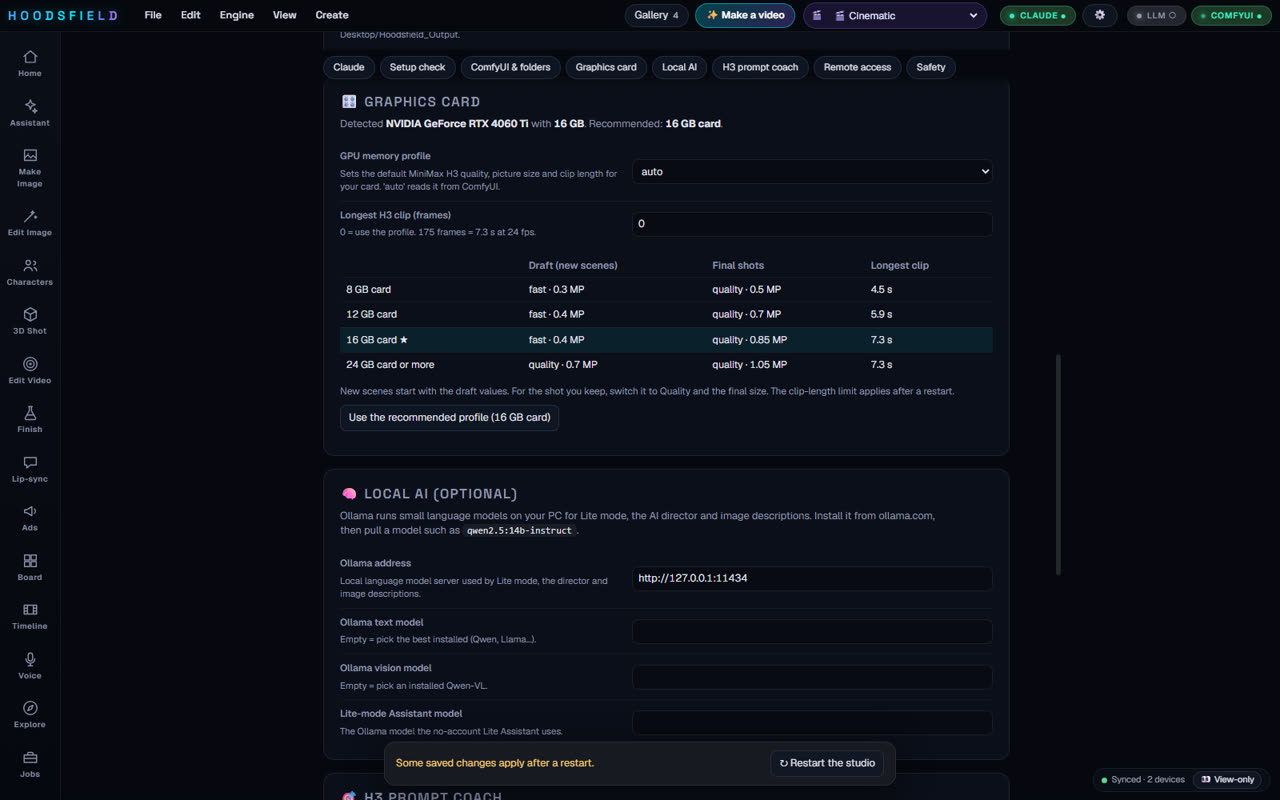
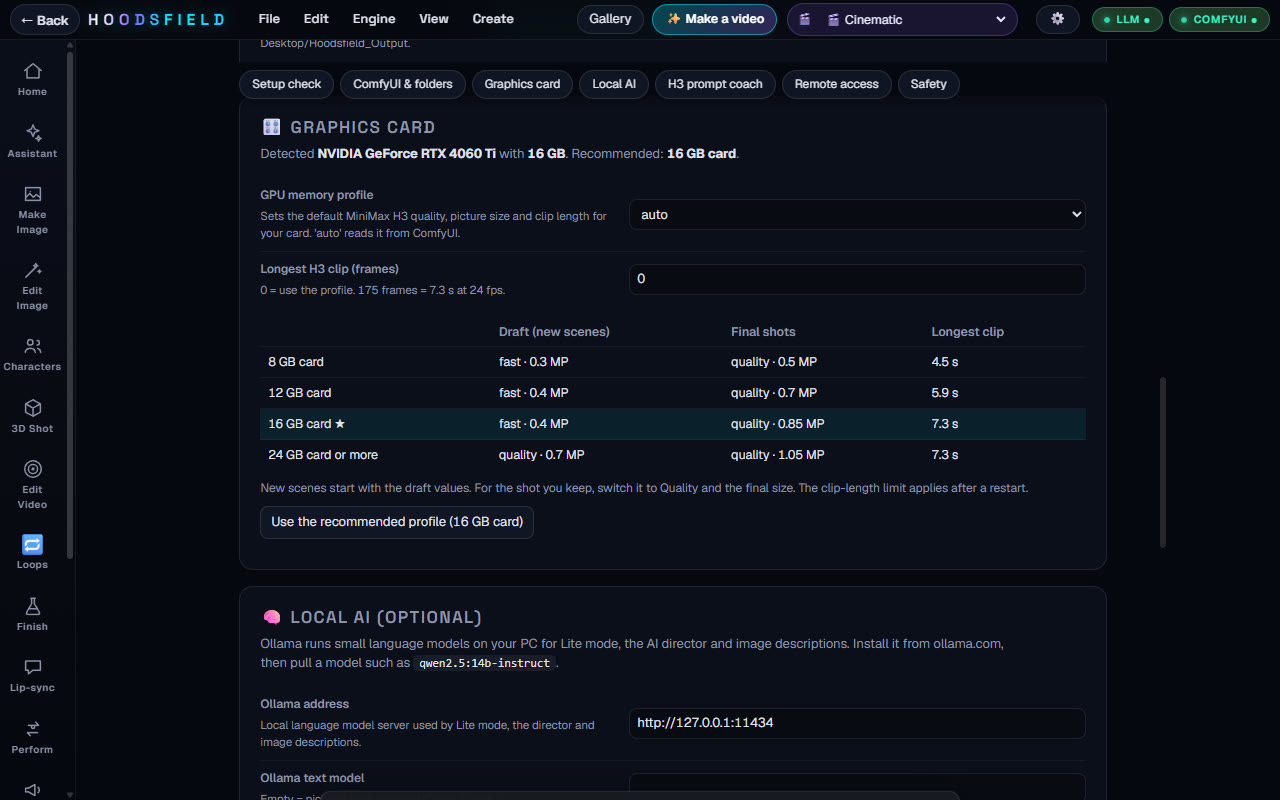
Contest build: Claude extras are opt-in and off by default
- New claude_enabled setting (HF_CLAUDE_ENABLED, off by default). With it off, the optional Claude Assistant engine, the Story Room Claude engines, the Settings Claude card, the top-bar pill, the installer check and the MCP Claude command are hidden or refused. The code is kept; a personal settings file switches it on.
- Loops one-click planner reads the picture with the local Ollama vision model when the extras are off, and falls back to a default plan.
- Docs, security notes, setup guide, changelog and development notes no longer describe Claude; the connection guide and its screenshot moved out of the repo.
- Settings screenshot recaptured without the Claude chip.

diff --git a/app/frontend/src/components/SettingsPage.jsx b/app/frontend/src/components/SettingsPage.jsx
@@ -165,6 +165,7 @@ export default function SettingsPage({ active }) {
   const apiMode = (val('claude_auth') || 'login') === 'api_key';
   let cstate = 'loading';
   if (claude) cstate = cs.error ? 'error' : !cs.installed ? 'missing' : cs.ready ? 'ready' : 'signedout';
+  const claudeOn = !!claude && !claude.disabled;   // the Claude card only exists when the Claude extras are switched on
 
   return (
     <div className="st-page" ref={root}>
@@ -184,13 +185,13 @@ export default function SettingsPage({ active }) {
       {!local && <div className="st-note">You are connected from another device. Sign-in, folders and passwords can only be changed on the PC itself.</div>}
 
       <nav className="st-nav">
-        {[['claude', 'Claude'], ['check', 'Setup check'], ['comfy', 'ComfyUI & folders'], ['gpu', 'Graphics card'], ['llm', 'Local AI'], ['coach', 'H3 prompt coach'], ['remote', 'Remote access'], ['safety', 'Safety']].map(([id, t]) => (
+        {[['claude', 'Claude'], ['check', 'Setup check'], ['comfy', 'ComfyUI & folders'], ['gpu', 'Graphics card'], ['llm', 'Local AI'], ['coach', 'H3 prompt coach'], ['remote', 'Remote access'], ['safety', 'Safety']].filter(([id]) => id !== 'claude' || claudeOn).map(([id, t]) => (
           <button key={id} onClick={() => root.current?.querySelector(`[data-sec="${id}"]`)?.scrollIntoView({ behavior: 'smooth', block: 'start' })}>{t}</button>
         ))}
       </nav>
 
       {/* ---------------------------------------------------------------- Claude */}
-      <section className="st-card" data-sec="claude">
+      {claudeOn && <section className="st-card" data-sec="claude">
         <h3>🤖 Claude</h3>
         <p className="st-lead">The <b>Assistant</b> (idea in, finished video out) and agent control use your own Claude account through the free Claude Code app. Everything else in Hoodsfield runs on your PC without any account, and Lite mode works with a local model if you skip this.</p>
 
@@ -234,18 +235,19 @@ export default function SettingsPage({ active }) {
         )}
 
         <div className="st-grid">
+          {F('claude_enabled')}
           {F('claude_auth')}
           {F('claude_model')}
           {apiMode && F('claude_api_key')}
         </div>
         <details className="st-adv"><summary>Advanced</summary>{F('claude_bin')}</details>
         <p className="st-hint">Using your own login means no API key sits on this PC and usage counts against your Claude plan, not a separate bill. The Assistant can only use Hoodsfield's tools and read files; it cannot run commands or edit files.</p>
-      </section>
+      </section>}
 
       {/* ---------------------------------------------------------------- health check */}
       <section className="st-card" data-sec="check">
         <h3>✅ Setup check</h3>
-        <p className="st-lead">Tests ComfyUI, folders, the nodes and models each feature needs, your graphics card, memory, disk space, ffmpeg, Claude and the local AI.</p>
+        <p className="st-lead">Tests ComfyUI, folders, the nodes and models each feature needs, your graphics card, memory, disk space, ffmpeg{claudeOn ? ', Claude' : ''} and the local AI.</p>
         <div className="st-actions"><button className="st-cta" disabled={checking} onClick={runCheck}>{checking ? 'Checking…' : health ? '↻ Run the check again' : 'Run the setup check'}</button>
           {health && <span className={health.ok ? 'st-pass' : 'st-fail'}>{health.summary.ok} OK · {health.summary.warn} to look at · {health.summary.fail} problem{health.summary.fail === 1 ? '' : 's'}</span>}</div>
         {health && (
@@ -317,12 +319,12 @@ export default function SettingsPage({ active }) {
         <h3>🎯 H3 prompt coach</h3>
         <p className="st-lead">MiniMax H3 makes picture and sound in one pass, so prompts work best as short production briefs. The coach keeps your words and adds camera, physics, audio and constraint lines. You can preview exactly what it adds next to the H3 prompt box.</p>
         {F('h3_coach')}{F('h3_coach_llm')}
-        <div className="st-row">
+        {claudeOn && <div className="st-row">
           <label><b>Claude Code skill</b><small>Teaches Claude Code the same H3 prompting rules, so any agent session writes better H3 prompts.</small></label>
           <div className="st-ctl">
             {skill?.installed ? <span className="st-pass">✔ installed</span> : <button disabled={!local || !skill?.available} onClick={installSkill}>Install the skill</button>}
           </div>
-        </div>
+        </div>}
       </section>
 
       {/* ---------------------------------------------------------------- remote */}

diff --git a/app/frontend/src/components/AssistantPanel.jsx b/app/frontend/src/components/AssistantPanel.jsx
@@ -147,7 +147,7 @@ export default function AssistantPanel({ active, assets }) {
   useEffect(() => {
     if (active) {
       loadRuns();
-      jget('/api/assistant/status').then((s) => { setSt(s); if (!s.claude_code && s.lite?.installed) setForm((f) => ({ ...f, engine: 'lite' })); }).catch(() => {});
+      jget('/api/assistant/status').then((s) => { setSt(s); if ((!s.claude_enabled || !s.claude_code) && (s.lite?.installed || !s.claude_enabled)) setForm((f) => ({ ...f, engine: 'lite' })); }).catch(() => {});
     }
   }, [active, loadRuns]);
   useEffect(() => { if (sel) loadRun(sel); else setRun(null); }, [sel, loadRun]);
@@ -245,7 +245,7 @@ export default function AssistantPanel({ active, assets }) {
         {alertNote && <p className="as-hint" onClick={() => setAlertNote('')}>{alertNote}</p>}
         <p className="as-sub">Give it an idea. It writes, makes the pictures and clips, and builds the video, and asks for your OK at the key points. You can leave and answer from your phone.</p>
       </div>
-      {st && !st.claude_code && form.engine === 'claude' && <div className="error">{st.claude?.message || "Claude isn't connected on this PC."} <button type="button" onClick={() => openPage('settings', 'claude')}>Set up Claude</button> or switch to Lite mode below.</div>}
+      {st && st.claude_enabled && !st.claude_code && form.engine === 'claude' && <div className="error">{st.claude?.message || "Claude isn't connected on this PC."} <button type="button" onClick={() => openPage('settings', 'claude')}>Set up Claude</button> or switch to Lite mode below.</div>}
       {err && <div className="error" onClick={() => { setErr(''); if (sel) loadRun(sel); else loadRuns(); }}>{err}</div>}
 
       {!sel && (
@@ -271,9 +271,11 @@ export default function AssistantPanel({ active, assets }) {
 
             <label>Assistant brain</label>
             <div className="as-engines">
-              <button type="button" className={form.engine === 'claude' ? 'on' : ''} disabled={st && !st.claude_code} onClick={() => setForm({ ...form, engine: 'claude' })}>
-                <b>Claude</b><small>Best quality. Uses your Claude login.{st && !st.claude_code ? (st.claude?.installed ? ' (not signed in)' : ' (not installed)') : ''}</small>
-              </button>
+              {st?.claude_enabled && (
+                <button type="button" className={form.engine === 'claude' ? 'on' : ''} disabled={st && !st.claude_code} onClick={() => setForm({ ...form, engine: 'claude' })}>
+                  <b>Claude</b><small>Best quality. Uses your Claude login.{st && !st.claude_code ? (st.claude?.installed ? ' (not signed in)' : ' (not installed)') : ''}</small>
+                </button>
+              )}
               <button type="button" className={form.engine === 'lite' ? 'on' : ''} disabled={st && !(st.lite?.ollama && st.lite?.installed)} onClick={() => setForm({ ...form, engine: 'lite' })}>
                 <b>Lite (local)</b><small>Free, no account. Plainer scripts, no self-review.{st && !st.lite?.installed ? ` (needs ${st.lite?.model})` : ''}</small>
               </button>

diff --git a/app/frontend/src/components/StoryRoom.jsx b/app/frontend/src/components/StoryRoom.jsx
@@ -23,7 +23,8 @@ export default function StoryRoom({ tk, setTk, onScript, goScript }) {
 
   const patch = (p) => setTk((m) => ({ ...m, room: { ...(m.room || { messages: [], engine: '' }), ...p } }));
   useEffect(() => { storyRoomStatus().then(setSt); }, []);
-  const engine = room.engine || (st?.claude_code?.available ? 'claude_code' : st?.claude.configured ? 'claude' : 'local');
+  const claudeOn = !!st?.enabled;       // the Claude engines exist only when the Claude extras are switched on
+  const engine = !claudeOn ? 'local' : room.engine || (st?.claude_code?.available ? 'claude_code' : st?.claude.configured ? 'claude' : 'local');
   useEffect(() => { endRef.current?.scrollIntoView({ behavior: 'smooth', block: 'nearest' }); }, [room.messages.length, busy]);
 
   const ask = async (messages) => {
@@ -73,6 +74,7 @@ export default function StoryRoom({ tk, setTk, onScript, goScript }) {
           <button className={engine === 'local' ? 'on' : ''} onClick={() => patch({ engine: 'local' })} title={st?.local.ok ? `Local AI (${st.local.model}): free and private, a smaller writer` : 'Ollama is not running'}>
             🖥 Local AI {st ? (st.local.ok ? '●' : '○') : ''}
           </button>
+          {claudeOn && <>
           <button className={engine === 'claude_code' ? 'on' : ''} onClick={() => (st?.claude_code?.available ? patch({ engine: 'claude_code' }) : openPage('settings', 'claude'))}
             title={st?.claude_code?.available ? 'Claude, using your Claude subscription through the Claude Code that is already signed in on this computer. No API key. Takes a few seconds longer per reply.' : `${st?.claude_code?.message || 'Claude is not connected.'} Click to set it up in Settings.`}>
             ✨ Claude (my subscription) {st?.claude_code?.available ? '●' : '○'}
@@ -80,10 +82,11 @@ export default function StoryRoom({ tk, setTk, onScript, goScript }) {
           <button className={engine === 'claude' ? 'on' : ''} onClick={() => (claudeReady ? patch({ engine: 'claude' }) : setShowKey(true))} title="Claude through the Anthropic API with your own API key (billed separately from a subscription); only this conversation is sent.">
             🔑 Claude API key {claudeReady ? '●' : ''}
           </button>
+          </>}
         </div>
       </div>
 
-      {showKey && (
+      {claudeOn && showKey && (
         <div className="sr-key">
           <div className="hint">Paste your Anthropic API key (starts with <code>sk-ant-</code>). It is stored only on this computer, in the backend folder. Only the story conversation is sent to Anthropic, never your images or videos. Get one at console.anthropic.com.</div>
           <div className="row">

diff --git a/app/frontend/src/components/MagicLoop.jsx b/app/frontend/src/components/MagicLoop.jsx
@@ -2,7 +2,7 @@ import React, { useEffect, useRef, useState } from 'react';
 import DropZone from './DropZone.jsx';
 import LivingScene from './LivingScene.jsx';
 
-// One click: drop a picture, Claude looks at it like an art director and plans the loop (what is water, what must stay still, which effects suit it,
+// One click: drop a picture and Hoodsfield plans the loop (an optional vision planner, when switched on, reads the picture like an art director) (what is water, what must stay still, which effects suit it,
 // and where), and the app renders it. Water and fog scenes are drawn on the graphics card; rain, snow, stars, aurora, fireflies and lamps use the
 // layer engine. A one-line hint ("stars and a lamp flicker, no fog") re-plans it.
 
@@ -141,7 +141,7 @@ export default function MagicLoop({ assets = [], onLoop, onError }) {
 
   if (!pic) {
     return (
-      <DropZone accept="image" icon="✨" title="Drop a picture. That's it." hint="A lake, a rainy window, a snowy cabin, a night street… Claude looks at it, decides what should move, and makes the loop for you."
+      <DropZone accept="image" icon="✨" title="Drop a picture. That's it." hint="A lake, a rainy window, a snowy cabin, a night street… Hoodsfield decides what should move and makes the loop for you."
         assets={assets} onFile={(f) => { setHint(''); look({ blob: f, url: URL.createObjectURL(f), name: f.name }); }} onAsset={(a) => { setHint(''); look({ blob: a.blob, url: a.url, name: a.name }); }} />
     );
   }

diff --git a/app/frontend/src/components/McpPage.jsx b/app/frontend/src/components/McpPage.jsx
@@ -12,14 +12,16 @@ export default function McpPage() {
       <div className="mcp-card">
         <h2>🤖 Let an agent drive the studio</h2>
         <p>
-          Hoodsfield ships a local <b>Model Context Protocol</b> server. Register it once and Claude (or any MCP client) can generate and
+          Hoodsfield ships a local <b>Model Context Protocol</b> server. Register it once and any MCP client can generate and
           edit images, build character sheets, upscale, cut out backgrounds, interpolate, animate stills and run Genjutsu — on your GPU, with no cloud.
           Keep the backend and ComfyUI running.
         </p>
-        <h3>Claude Code</h3>
-        <pre>{info?.claude_code || 'loading…'}</pre>
-        <button disabled={!info} onClick={() => copy('cc', info.claude_code)}>{copied === 'cc' ? 'Copied ✓' : 'Copy command'}</button>
-        <h3>Other clients (JSON)</h3>
+        {info?.claude_code && (<>
+          <h3>Claude Code</h3>
+          <pre>{info.claude_code}</pre>
+          <button onClick={() => copy('cc', info.claude_code)}>{copied === 'cc' ? 'Copied ✓' : 'Copy command'}</button>
+        </>)}
+        <h3>MCP clients (JSON)</h3>
         <pre>{info ? JSON.stringify(info.json, null, 2) : 'loading…'}</pre>
         <button disabled={!info} onClick={() => copy('js', JSON.stringify(info.json, null, 2))}>{copied === 'js' ? 'Copied ✓' : 'Copy JSON'}</button>
       </div>

diff --git a/app/frontend/src/components/SetupBanner.jsx b/app/frontend/src/components/SetupBanner.jsx
@@ -25,7 +25,7 @@ export default function SetupBanner({ onOpen }) {
     <div className="setup-banner" role="status">
       <div>
         <b>Welcome to Hoodsfield.</b>{' '}
-        <span>{res.summary.fail ? `${res.summary.fail} thing${res.summary.fail === 1 ? '' : 's'} must be fixed before everything works` : `${n} thing${n === 1 ? '' : 's'} worth a look`}. Settings has a one-page checklist and the Claude sign-in.</span>
+        <span>{res.summary.fail ? `${res.summary.fail} thing${res.summary.fail === 1 ? '' : 's'} must be fixed before everything works` : `${n} thing${n === 1 ? '' : 's'} worth a look`}. Settings has a one-page checklist.</span>
       </div>
       <button className="st-cta" onClick={() => { mark(); setRes(null); onOpen?.(); openPage('settings', 'check'); }}>Open setup</button>
       <button className="x" onClick={() => { mark(); setRes(null); }} aria-label="Dismiss">✕</button>

diff --git a/app/frontend/src/features.js b/app/frontend/src/features.js
@@ -62,8 +62,8 @@ export const FEATURES = [
   { id: 'timeline', overlay: 'timeline', icon: '🎞', title: 'Timeline', tag: 'Cut it all together',
     blurb: 'A multi-track editor: trim, split, speed, dissolves, overlays, captions, audio mix and a colour look, exported by ffmpeg.',
     media: 'timeline', accent: '#a07bff', group: 'workflows', badge: 'NLE' },
-  { id: 'mcp', overlay: 'mcp', icon: '🤖', title: 'Agent / MCP', tag: 'Let Claude drive the studio',
-    blurb: 'A local MCP server exposes generate, edit, upscale, cutout, Genjutsu and more to Claude or any agent.',
+  { id: 'mcp', overlay: 'mcp', icon: '🤖', title: 'Agent / MCP', tag: 'Let an agent drive the studio',
+    blurb: 'A local MCP server exposes generate, edit, upscale, cutout, Genjutsu and more to any MCP agent.',
     media: 'mcp', accent: '#c4b5fd', group: 'workflows', badge: 'MCP' },
 ];
 

diff --git a/app/frontend/src/components/TikTokPanel.jsx b/app/frontend/src/components/TikTokPanel.jsx
@@ -285,7 +285,7 @@ export default function TikTokPanel({
           {inbox.length > 0 && (
             <div className="tk-fx">
               <h4 className="sd-h">📥 Scripts waiting in your inbox</h4>
-              <div className="hint">Scripts written for you outside the app (for example co-written with Claude) show up here. Click one to load it as your script.</div>
+              <div className="hint">Scripts written for you outside the app (for example written in another tool) show up here. Click one to load it as your script.</div>
               {inbox.map((sc) => (
                 <button key={sc.name} disabled={scriptBusy} onClick={async () => { const d = await getScript(sc.name); setPasteText(d.text); onParseScript(d.text); }}>
                   📄 {sc.title} <small>· {sc.shots} shots</small>

diff --git a/app/frontend/src/api.js b/app/frontend/src/api.js
@@ -660,7 +660,7 @@ export async function makeScore(prompt, seconds, seed = 7) {
 }
 
 
-/** Script inbox: scripts written outside the app (e.g. co-written with Claude) that can be loaded into the Script step. */
+/** Script inbox: scripts written outside the app (e.g. written in another tool) that can be loaded into the Script step. */
 export async function listScripts() { try { const r = await fetch('/api/scripts'); return r.ok ? (await r.json()).scripts : []; } catch { return []; } }
 export async function getScript(name) { const r = await fetch(`/api/scripts/${encodeURIComponent(name)}`); if (!r.ok) throw new Error('Could not open that script'); return r.json(); }
 

diff --git a/app/frontend/src/components/MenuBar.jsx b/app/frontend/src/components/MenuBar.jsx
@@ -18,7 +18,7 @@ export default function MenuBar({
   const [claude, setClaude] = useState(null);
   useEffect(() => {
     let on = true;
-    const load = () => fetch('/api/claude/status').then((r) => (r.ok ? r.json() : null)).then((j) => on && setClaude(j)).catch(() => {});
+    const load = () => fetch('/api/claude/status').then((r) => (r.ok ? r.json() : null)).then((j) => on && setClaude(j && !j.disabled ? j : null)).catch(() => {});
     load(); const t = setInterval(load, 90000);
     return () => { on = false; clearInterval(t); };
   }, []);

diff --git a/app/backend/loop_routes.py b/app/backend/loop_routes.py
@@ -459,7 +459,7 @@ def register(app, m):
         meta["url"] = f"/api/loop/file/{lid}"
         return meta
 
-    # ------------------------------------------------------------------ one click: Claude looks at the picture and plans the loop (what is water, what must stay still, which effects suit it, where)
+    # ------------------------------------------------------------------ one click: a vision model looks at the picture and plans the loop (what is water, what must stay still, which effects suit it, where)
     def _magic_default() -> dict:
         return {"scene": "other", "title": "Your picture", "indoors": False, "reason": "", "water": [], "keep_still": [], "window_box": None, "sky_box": None, "aurora_color": "#52ffb8",
                 "effects": {"mist": 0.4, "water_motion": 0.0, "glints": 0.0, "rain": 0.0, "snow": 0.0, "fireflies": 0.0, "stars": 0.0, "aurora": 0.0, "flicker": 0.2}}
@@ -538,6 +538,58 @@ Answer with ONE JSON object and nothing else. Coordinates are fractions of the p
  "aurora_color": "#rrggbb",
  "effects": {{"mist": 0-1, "water_motion": 0-1, "glints": 0-1, "rain": 0-1, "snow": 0-1, "fireflies": 0-1, "stars": 0-1, "aurora": 0-1, "flicker": 0-1}}}}"""
 
+    # the local vision model gets a shorter brief (small models spend their whole budget thinking over a long one) and a simpler answer: boxes, no hand-traced outlines
+    LOCAL_PROMPT = """Look at the picture. You plan a calm, endlessly looping "lofi / study" video of it: decide what should gently move. Only use effects that really suit this picture. mist only outdoors (never indoors); stars only if a night sky is visible; aurora only if an aurora or clear polar sky is visible; rain only for rain or a rainy window; snow only for snowy scenes; fireflies only for dusk or night in nature; flicker for lamps, candles and fires. If it is indoors with a window, give the glass area as window_box so outdoor effects stay behind the glass. Strengths 0 to 1, 0 for what does not belong; prefer a few well-chosen effects.
+{hint}Answer with ONE JSON object only. Boxes are [x0, y0, x1, y1] as fractions of the picture from 0 to 1.
+{{"scene": "lake|sea|river|rainy_window|rainy_street|snow|forest|city_night|interior|sky|other", "title": "a few words", "indoors": true or false, "reason": "one sentence: the mood and why these motions", "window_box": [x0, y0, x1, y1] or null, "sky_box": [x0, y0, x1, y1] or null, "aurora_color": "#rrggbb", "effects": {{"mist": 0-1, "rain": 0-1, "snow": 0-1, "fireflies": 0-1, "stars": 0-1, "aurora": 0-1, "flicker": 0-1}}}}"""
+
+    def _magic_local(data: bytes, hint_txt: str):
+        """Plan the loop with the local Ollama vision model (no account, nothing leaves the PC). None if it is not available or answers badly."""
+        import base64
+        import io as _io
+        import httpx
+        from PIL import Image
+        url = (os.environ.get("OLLAMA_URL") or "http://127.0.0.1:11434").rstrip("/")
+        print(f"[loops] local planner start {url}", flush=True)
+        try:
+            with httpx.Client(timeout=httpx.Timeout(900, connect=5), trust_env=False) as c:
+                names = [m.get("name", "") for m in c.get(f"{url}/api/tags", timeout=5).json().get("models", [])]
+                model = os.environ.get("OLLAMA_VISION_MODEL") or next((n for n in names if re.search(r"vl|vision|llava", n, re.I)), "")
+                print(f"[loops] local planner model: {model!r}", flush=True)
+                if not model:
+                    return None
+                im = Image.open(_io.BytesIO(data)).convert("RGB")
+                im.thumbnail((896, 896))
+                buf = _io.BytesIO()
+                im.save(buf, "JPEG", quality=88)
+                prompt = LOCAL_PROMPT.format(hint=hint_txt)
+                body = {"model": model, "stream": False, "think": False, "options": {"temperature": 0.2, "num_ctx": 8192, "num_predict": 6000},
+                        "messages": [{"role": "user", "content": prompt, "images": [base64.b64encode(buf.getvalue()).decode()]}]}
+                t0 = time.time()
+                print(f"[loops] local planner: asking {model} (read timeout {c.timeout.read}s)", flush=True)
+                r = c.post(f"{url}/api/chat", json=body)
+                print(f"[loops] local planner {model}: HTTP {r.status_code} in {time.time() - t0:.0f}s", flush=True)
+                if r.status_code != 200:
+                    return None
+                txt = str(r.json().get("message", {}).get("content") or "")
+                plan_j = json.loads(txt[txt.find("{"): txt.rfind("}") + 1])
+                def frac(v):    # vision models often answer boxes on a 0-1000 scale
+                    try:
+                        vals = [float(t) for t in v]
+                    except Exception:
+                        return None
+                    return [t / 1000.0 for t in vals] if max(vals) > 1.5 else vals
+                for k in ("window_box", "sky_box"):
+                    if plan_j.get(k):
+                        plan_j[k] = frac(plan_j[k])
+                out = _magic_clean(plan_j)
+                out["effects"]["water_motion"] = 0.0      # no traced water, so none of the water effects
+                out["effects"]["glints"] = 0.0
+                return {**out, "source": "local"}
+        except Exception as e:
+            print(f"[loops] local picture planner failed: {e!r}", flush=True)
+            return None
+
     @app.post("/api/loop/magic/analyze")
     async def loop_magic_analyze(image: UploadFile = File(...), hint: str = Form("")):
         data = await image.read()
@@ -550,6 +602,9 @@ Answer with ONE JSON object and nothing else. Coordinates are fractions of the p
             import io as _io
             plan = _magic_default()
             try:
+                if not claude_cli.enabled():
+                    hint_loc = ("\nThe user asked for this, and it overrides your own taste (still obey the physical rules above): \"" + hint.replace('"', "'") + "\"\n") if hint else ""
+                    return _magic_local(data, hint_loc) or {**plan, "source": "default"}
                 if not claude_cli.find_exe() or not claude_cli.status().get("ready"):
                     return {**plan, "source": "default", "note": "Claude is not connected (Settings, Claude card), so I used a gentle default. Connect it and I can read your picture."}
                 im = Image.open(_io.BytesIO(data)).convert("RGB")

diff --git a/app/backend/story_room.py b/app/backend/story_room.py
@@ -160,7 +160,7 @@ def register(app, m):
     @app.get("/api/storyroom/status")
     async def status():
         s = _settings()
-        key = s.get("anthropic_key", "")
+        key = s.get("anthropic_key", "") if claude_cli.enabled() else ""
         local_ok, local_model = False, ""
         try:
             async with httpx.AsyncClient(timeout=4, trust_env=False) as c:
@@ -169,11 +169,13 @@ def register(app, m):
                 local_ok = bool(local_model)
         except Exception:
             pass
-        return {"local": {"ok": local_ok, "model": local_model}, "claude_code": {"available": bool((await asyncio.to_thread(claude_cli.status)).get("ready")), "installed": bool(claude_cli.find_exe()), "message": (await asyncio.to_thread(claude_cli.status)).get("message", ""), "choice": s.get("claude_model", "sonnet")},
+        return {"enabled": claude_cli.enabled(), "local": {"ok": local_ok, "model": local_model}, "claude_code": {"available": bool((await asyncio.to_thread(claude_cli.status)).get("ready")), "installed": bool(claude_cli.find_exe()), "message": (await asyncio.to_thread(claude_cli.status)).get("message", ""), "choice": s.get("claude_model", "sonnet")},
                 "claude": {"configured": bool(key), "last4": key[-4:] if key else "", "model": CLAUDE_MODELS.get(s.get("claude_model", "sonnet"), CLAUDE_MODELS["sonnet"]), "choice": s.get("claude_model", "sonnet")}}
 
     @app.post("/api/storyroom/key")
     async def set_key(body: dict = Body(...)):
+        if not claude_cli.enabled():
+            raise HTTPException(403, "The Claude extras are switched off.")
         key = str(body.get("key") or "").strip()
         if not re.fullmatch(r"sk-ant-[A-Za-z0-9_\-]{20,}", key):
             raise HTTPException(400, "That doesn't look like an Anthropic API key (it starts with sk-ant-).")
@@ -197,6 +199,8 @@ def register(app, m):
         return {"ok": True}
 
     async def _run(engine: str, system: str, messages: list[dict], max_tokens: int, temperature: float, mode: str = "chat") -> dict:
+        if engine.startswith("claude") and not claude_cli.enabled():
+            engine = "local"
         if engine == "claude_code":
             return {"text": await _claude_code(system, messages, max_tokens, mode), "engine": "claude_code", "model": _settings().get("claude_model", "sonnet")}
         if engine == "claude":
